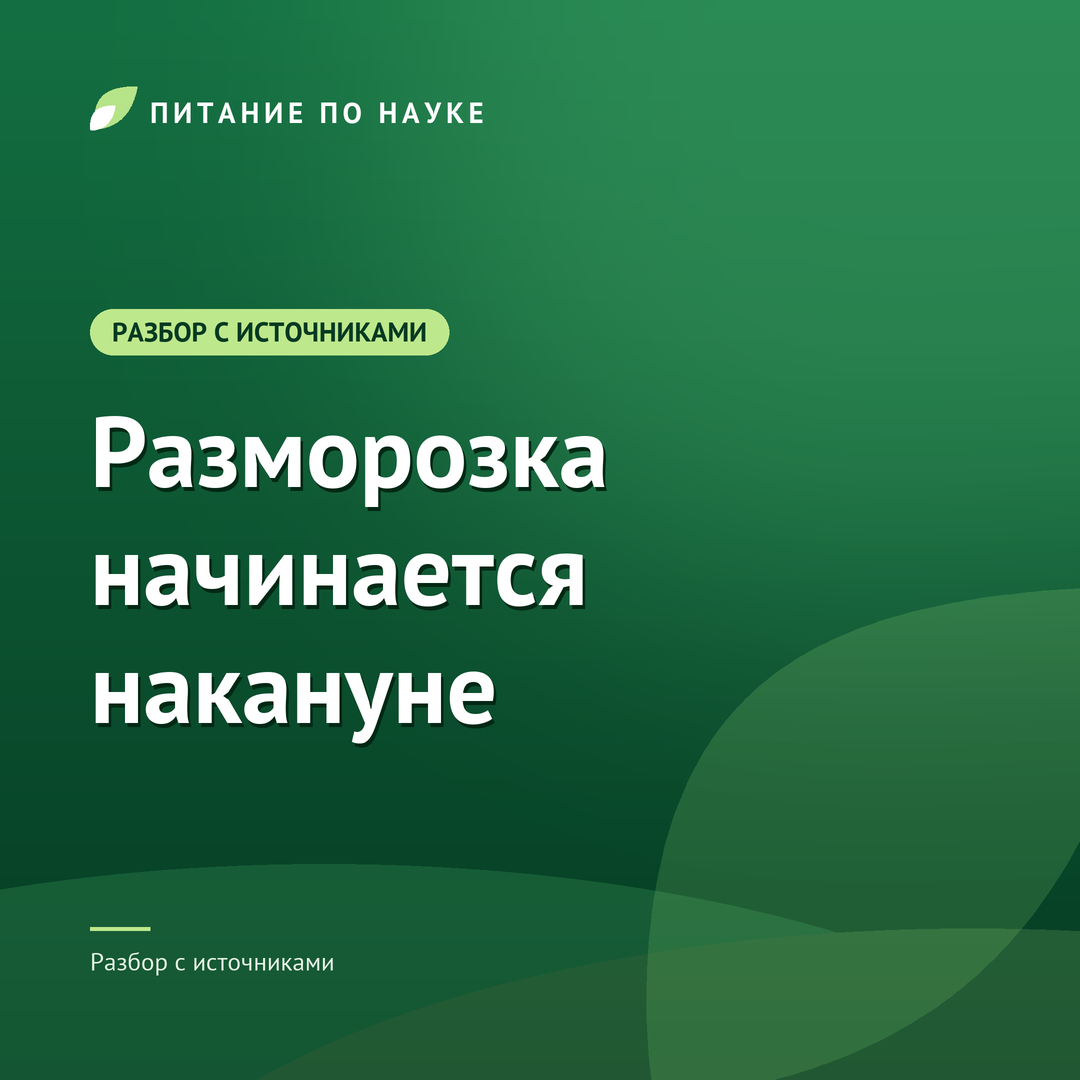
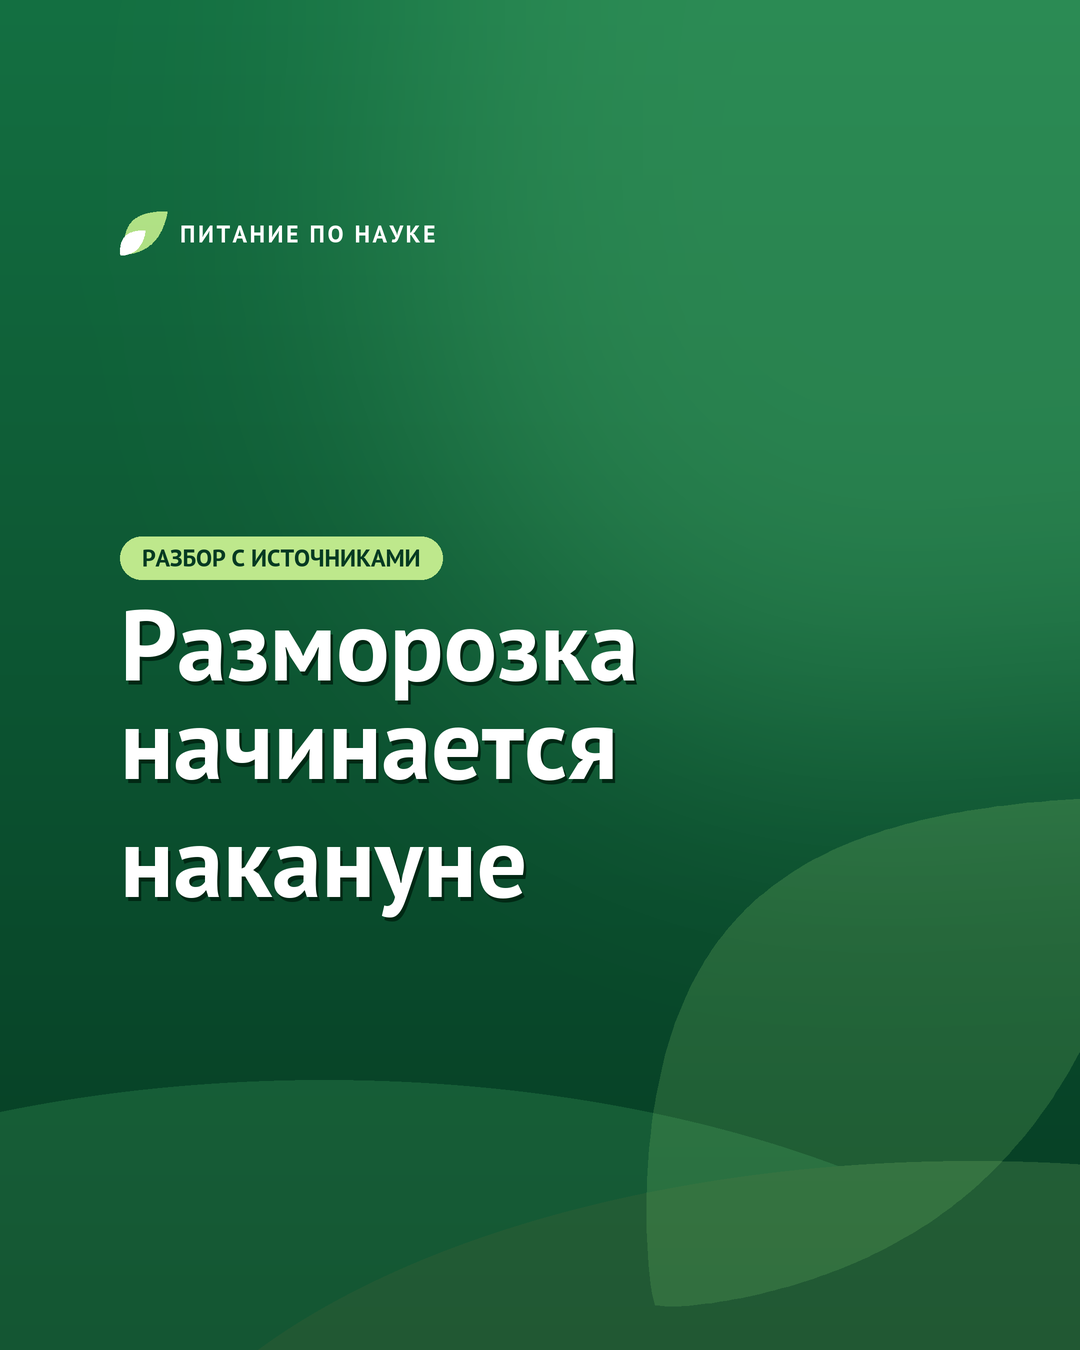
Adapt nutrition post cards for Instagram portrait previews

diff --git a/bot/cover_pitanie.py b/bot/cover_pitanie.py
@@ -6,12 +6,14 @@ from pathlib import Path
 from PIL import Image, ImageDraw, ImageFilter, ImageFont
 
 sys.path.insert(0, str(Path(__file__).resolve().parent.parent))
-from bot.image_template import FONT_BOLD, FONT_REGULAR, _wrap
+from bot.image_template import FONT_BOLD, _wrap
 from scripts.make_vk_avatar_pitanie import leaf_points
 
-OUT_SIZE = 1080
-S = OUT_SIZE * 2
-M = 180
+OUT_WIDTH = 1080
+OUT_HEIGHT = 1350
+WIDTH = OUT_WIDTH * 2
+HEIGHT = OUT_HEIGHT * 2
+M = 240
 
 TOP = (20, 112, 66)
 BOTTOM = (5, 58, 34)
@@ -19,78 +21,80 @@ GLOW = (70, 170, 105)
 LEAF_TOP = (190, 232, 140)
 LEAF_BOTTOM = (110, 190, 100)
 WHITE = (255, 255, 255)
-SOFT = (232, 244, 228)
 
 
 def _gradient(top, bottom):
-    g = Image.new("RGB", (S, S))
+    g = Image.new("RGB", (WIDTH, HEIGHT))
     d = ImageDraw.Draw(g)
-    for y in range(S):
-        t = y / (S - 1)
-        d.line([(0, y), (S, y)], fill=tuple(int(top[i] + (bottom[i] - top[i]) * t) for i in range(3)))
+    for y in range(HEIGHT):
+        t = y / (HEIGHT - 1)
+        d.line([(0, y), (WIDTH, y)], fill=tuple(int(top[i] + (bottom[i] - top[i]) * t) for i in range(3)))
     return g
 
 
 def _paint_leaf(img, pts, top, bottom, alpha=255):
-    mask = Image.new("L", (S, S), 0)
+    mask = Image.new("L", (WIDTH, HEIGHT), 0)
     ImageDraw.Draw(mask).polygon(pts, fill=alpha)
     layer = _gradient(top, bottom).convert("RGBA")
     layer.putalpha(mask)
     return Image.alpha_composite(img, layer)
 
 
-def _fit(draw, text, max_w, max_h, start=200, stop=100):
+def _fit(draw, text, max_w, max_h, start=200, stop=64):
     for size in range(start, stop - 1, -4):
         font = ImageFont.truetype(FONT_BOLD, size)
         lines = _wrap(draw, text, font, max_w)
         line_h = int(size * 1.18)
-        if line_h * len(lines) <= max_h:
+        if line_h * len(lines) <= max_h and all(
+            draw.textlength(line, font=font) <= max_w for line in lines
+        ):
             return font, lines, line_h
-    font = ImageFont.truetype(FONT_BOLD, stop)
-    return font, _wrap(draw, text, font, max_w), int(stop * 1.18)
+    raise ValueError("Cover title is too long to fit within the safe area")
 
 
 def render_cover_pitanie(question, category, out_path):
+    """Render a 4:5 card with text inside the central square and 3:4 crops."""
     img = _gradient(TOP, BOTTOM).convert("RGBA")
 
-    glow = Image.new("L", (S, S), 0)
-    ImageDraw.Draw(glow).ellipse([S * 0.35, -S * 0.25, S * 1.25, S * 0.55], fill=120)
-    glow = glow.filter(ImageFilter.GaussianBlur(S * 0.13))
-    img = Image.composite(Image.new("RGBA", (S, S), GLOW + (255,)), img, glow)
+    glow = Image.new("L", (WIDTH, HEIGHT), 0)
+    ImageDraw.Draw(glow).ellipse([WIDTH * 0.35, -HEIGHT * 0.25, WIDTH * 1.25, HEIGHT * 0.55], fill=120)
+    glow = glow.filter(ImageFilter.GaussianBlur(WIDTH * 0.13))
+    img = Image.composite(Image.new("RGBA", (WIDTH, HEIGHT), GLOW + (255,)), img, glow)
 
-    hills = Image.new("RGBA", (S, S), (0, 0, 0, 0))
+    hills = Image.new("RGBA", (WIDTH, HEIGHT), (0, 0, 0, 0))
     hd = ImageDraw.Draw(hills)
-    hd.ellipse([-S * 0.5, S * 0.80, S * 1.1, S * 1.45], fill=(60, 160, 95, 70))
-    hd.ellipse([S * 0.1, S * 0.86, S * 1.7, S * 1.5], fill=(150, 210, 120, 50))
+    hd.ellipse([-WIDTH * 0.5, HEIGHT * 0.80, WIDTH * 1.1, HEIGHT * 1.45], fill=(60, 160, 95, 70))
+    hd.ellipse([WIDTH * 0.1, HEIGHT * 0.86, WIDTH * 1.7, HEIGHT * 1.5], fill=(150, 210, 120, 50))
     img = Image.alpha_composite(img, hills)
 
     # Large translucent leaf bleeding off the bottom-right corner.
-    deco = leaf_points(S * 0.84, S * 0.78, S * 0.66, S * 0.19, -45, bend=0.04)
+    deco = leaf_points(WIDTH * 0.84, HEIGHT * 0.78, WIDTH * 0.66, WIDTH * 0.19, -45, bend=0.04)
     img = _paint_leaf(img, deco, LEAF_TOP, LEAF_BOTTOM, alpha=55)
 
     # Brand mark: the two-leaf logo next to the channel name.
-    mx, my = M + 46, M + 40
+    # Keep the logo below the top edge of a centered square preview.
+    mx, my = M + 46, 470
     big = leaf_points(mx + 6, my - 4, 120, 34, -45, bend=0.04, n=80)
     small = leaf_points(mx - 20, my + 16, 70, 20, -45, bend=0.03, n=60)
     img = _paint_leaf(img, big, LEAF_TOP, LEAF_BOTTOM)
     img = _paint_leaf(img, small, WHITE, WHITE)
 
     d = ImageDraw.Draw(img)
-    kicker = ImageFont.truetype(FONT_BOLD, 58)
+    kicker = ImageFont.truetype(FONT_BOLD, 48)
     x = M + 120
     for ch in "ПИТАНИЕ ПО НАУКЕ":
         d.text((x, my - 34), ch, font=kicker, fill=WHITE)
-        x += d.textbbox((0, 0), ch, font=kicker)[2] + 9
+        x += d.textlength(ch, font=kicker) + 5
 
-    tag_font = ImageFont.truetype(FONT_BOLD, 54)
+    tag_font = ImageFont.truetype(FONT_BOLD, 48)
     tag = category.upper()
     bb = d.textbbox((0, 0), tag, font=tag_font)
     pad_x, pad_y = 44, 26
     box_h = (bb[3] - bb[1]) + 2 * pad_y
     gap = 60
 
-    area_top, area_bottom = S * 0.17, S * 0.80
-    font, lines, line_h = _fit(d, question, S - 2 * M - 60, area_bottom - area_top - box_h - gap)
+    area_top, area_bottom = 820, 2180
+    font, lines, line_h = _fit(d, question, WIDTH - 2 * M, area_bottom - area_top - box_h - gap)
     block_h = box_h + gap + line_h * len(lines)
     y0 = area_top + (area_bottom - area_top - block_h) / 2
 
@@ -100,14 +104,13 @@ def render_cover_pitanie(question, category, out_path):
 
     y = y0 + box_h + gap
     for line in lines:
-        d.text((M + 5, y + 8), line, font=font, fill=(0, 40, 20, 110))
-        d.text((M, y), line, font=font, fill=WHITE)
+        d.text((M + 5, y + 8), line, font=font, fill=(0, 40, 20, 110), anchor="lt")
+        d.text((M, y), line, font=font, fill=WHITE, anchor="lt")
         y += line_h
 
-    foot = ImageFont.truetype(FONT_REGULAR, 50)
-    d.line([(M, S * 0.86), (M + 120, S * 0.86)], fill=LEAF_TOP, width=8)
-    footer = {"Практика": "Идеи на каждый день", "С улыбкой": "Немного юмора"}.get(category, "Разбор с источниками")
-    d.text((M, S * 0.875), footer, font=foot, fill=SOFT)
-
-    img.convert("RGB").resize((OUT_SIZE, OUT_SIZE), Image.LANCZOS).save(out_path)
+    result = img.convert("RGB").resize((OUT_WIDTH, OUT_HEIGHT), Image.LANCZOS)
+    if Path(out_path).suffix.lower() in {".jpg", ".jpeg"}:
+        result.save(out_path, quality=95, subsampling=0, optimize=True)
+    else:
+        result.save(out_path)
     return out_path

diff --git a/EDITORIAL.md b/EDITORIAL.md
@@ -9,5 +9,5 @@
 - Для обсуждений давать узнаваемую ситуацию или содержательный вопрос. Не требовать лайк/репост, не разжигать стыд и конфликт. Не обещать рост вовлечённости: смотреть фактические реакции после публикации.
 - Юмор — узнаваемые бытовые детали и неожиданный поворот; не повторять постоянно «ожидание/реальность». По возможности выдерживать примерно 5–8 публикаций между мемами. В мем-карточке должен быть сам панчлайн, чтобы изображение можно было переслать отдельно.
 - В «Близко» ориентировочно каждый десятый пост может быть об интимной жизни: образовательный, без давления, с уважением к согласию и ограничениям данных.
-- Один Telegram-пост — одно сообщение с изображением и подписью до 1024 символов. Pitanie — новый зелёный стиль через bot/cover_pitanie.py; Близко — текущая розовая палитра.
+- Один Telegram-пост — одно сообщение с изображением и подписью до 1024 символов. Pitanie — зелёный стиль через bot/cover_pitanie.py, общий формат для Telegram и Instagram 1080 × 1350 (4:5). Логотип и весь текст помещать в центральную область с отступами, проверять центральные превью 3:4 и 1:1. Близко — текущая розовая палитра.
 - Очереди Telegram и native-расписание ВК независимы. Записи ВК проверять по журналу подтверждений; не заявлять, что уже отложенные записи отредактированы, без подтверждения API или видимого результата в UI.
